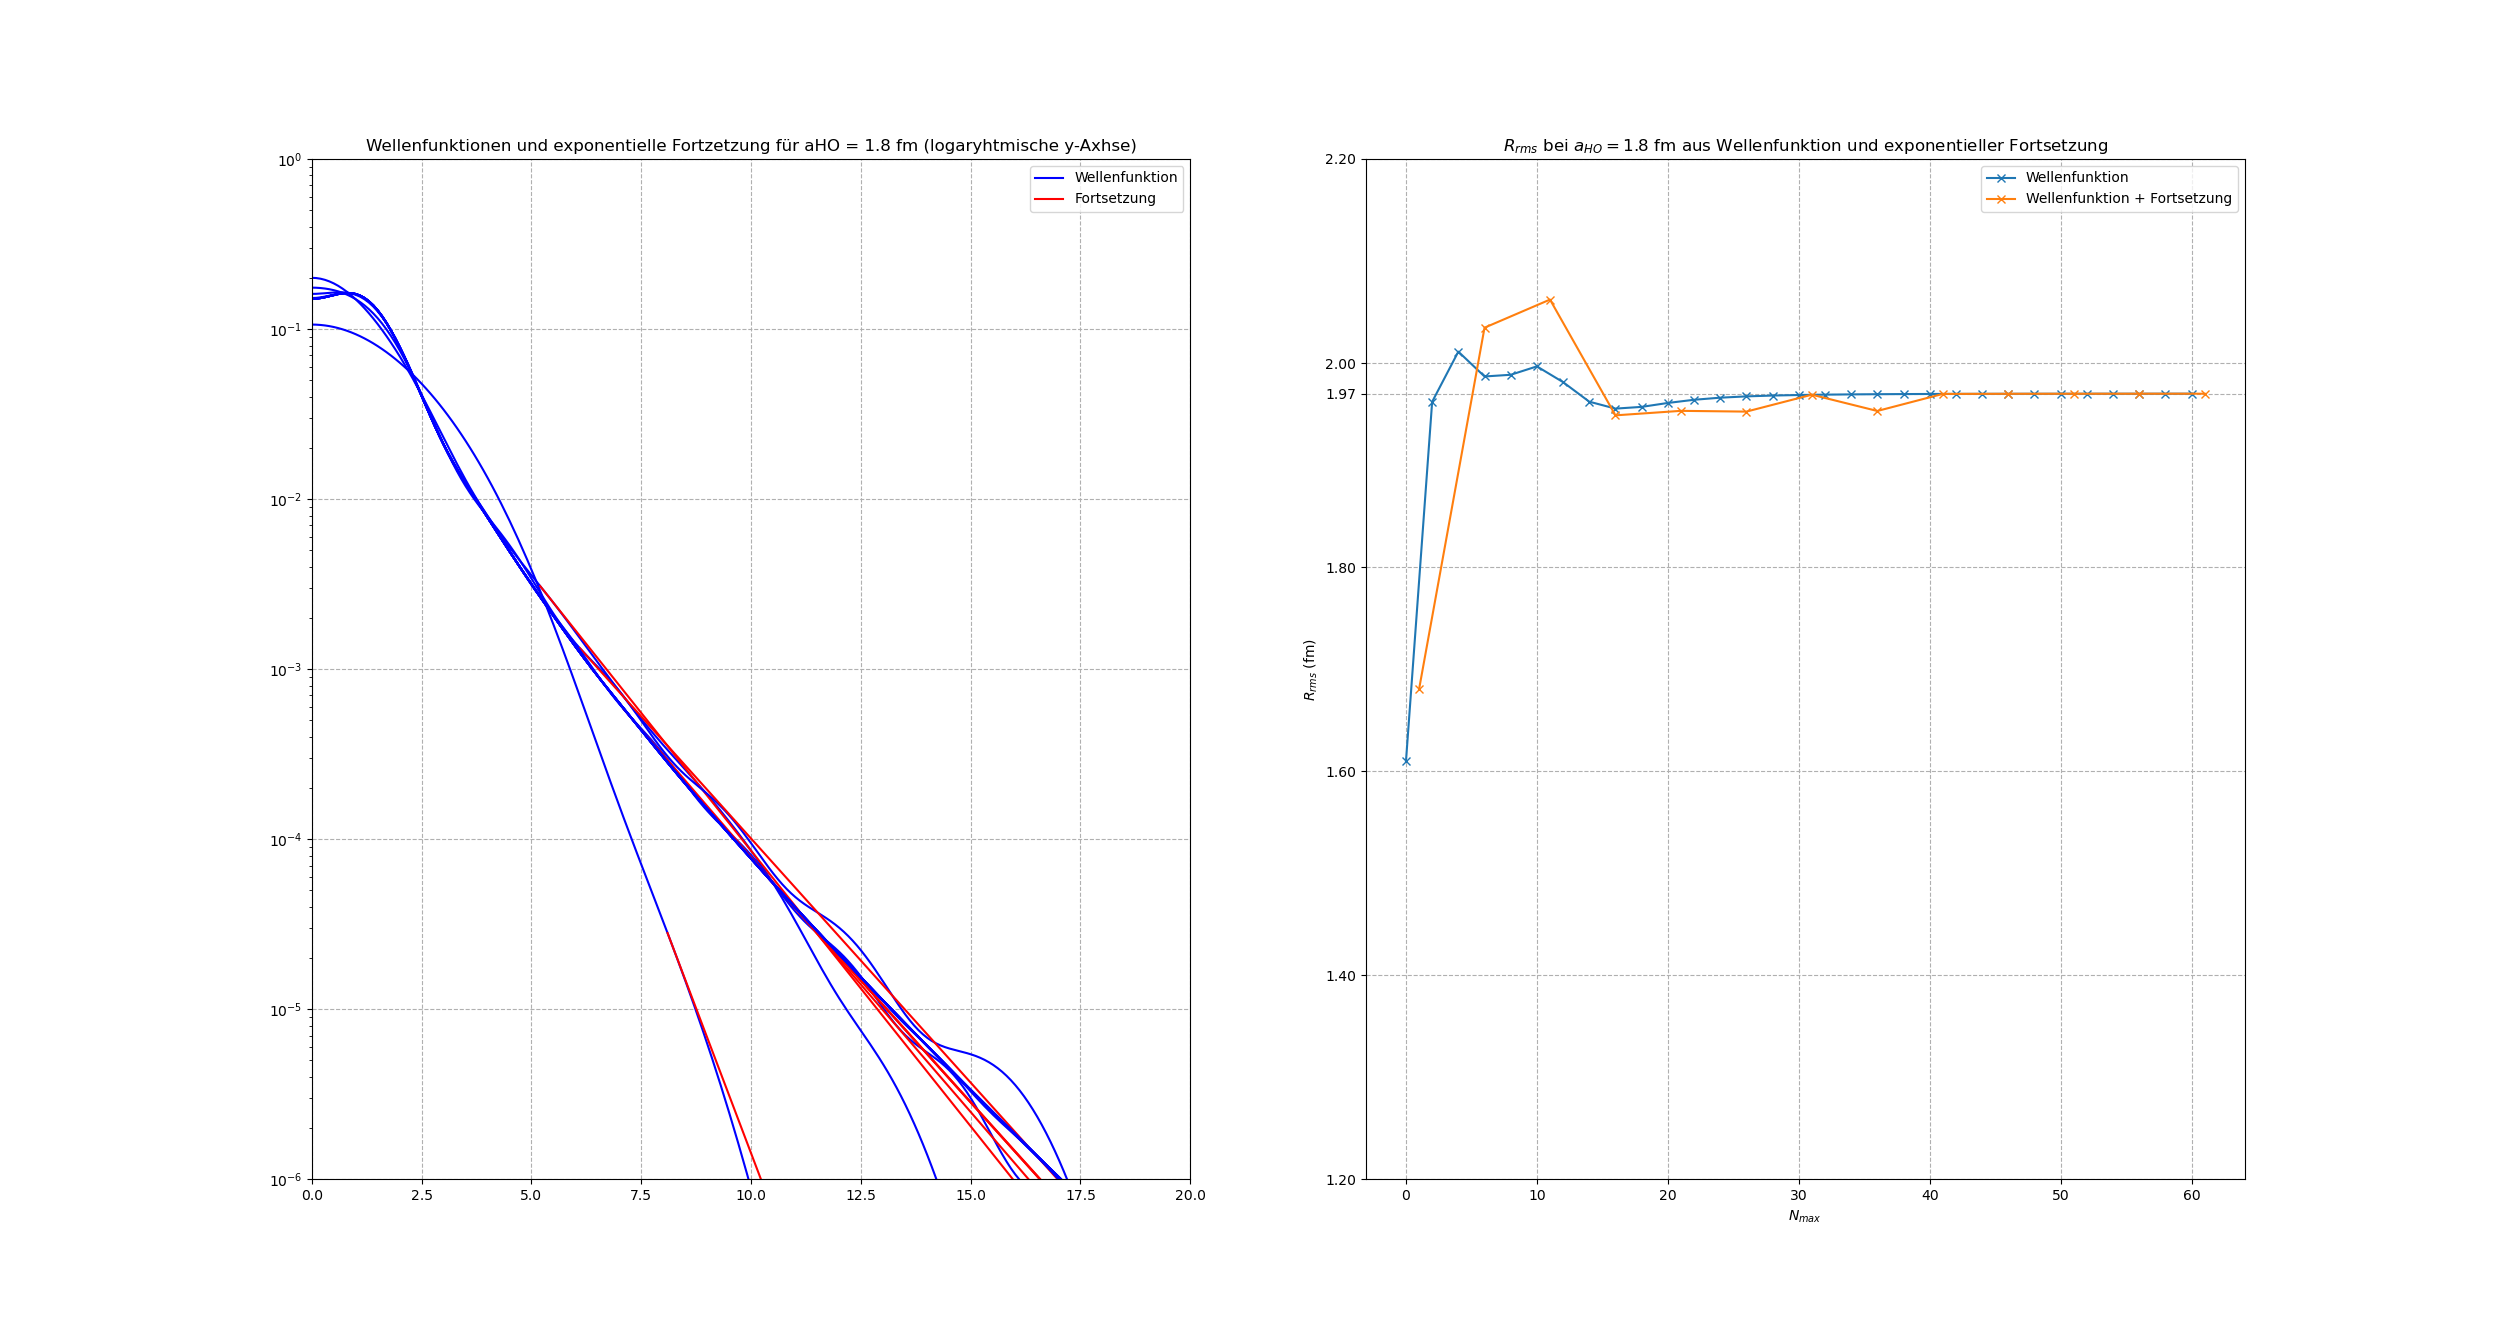
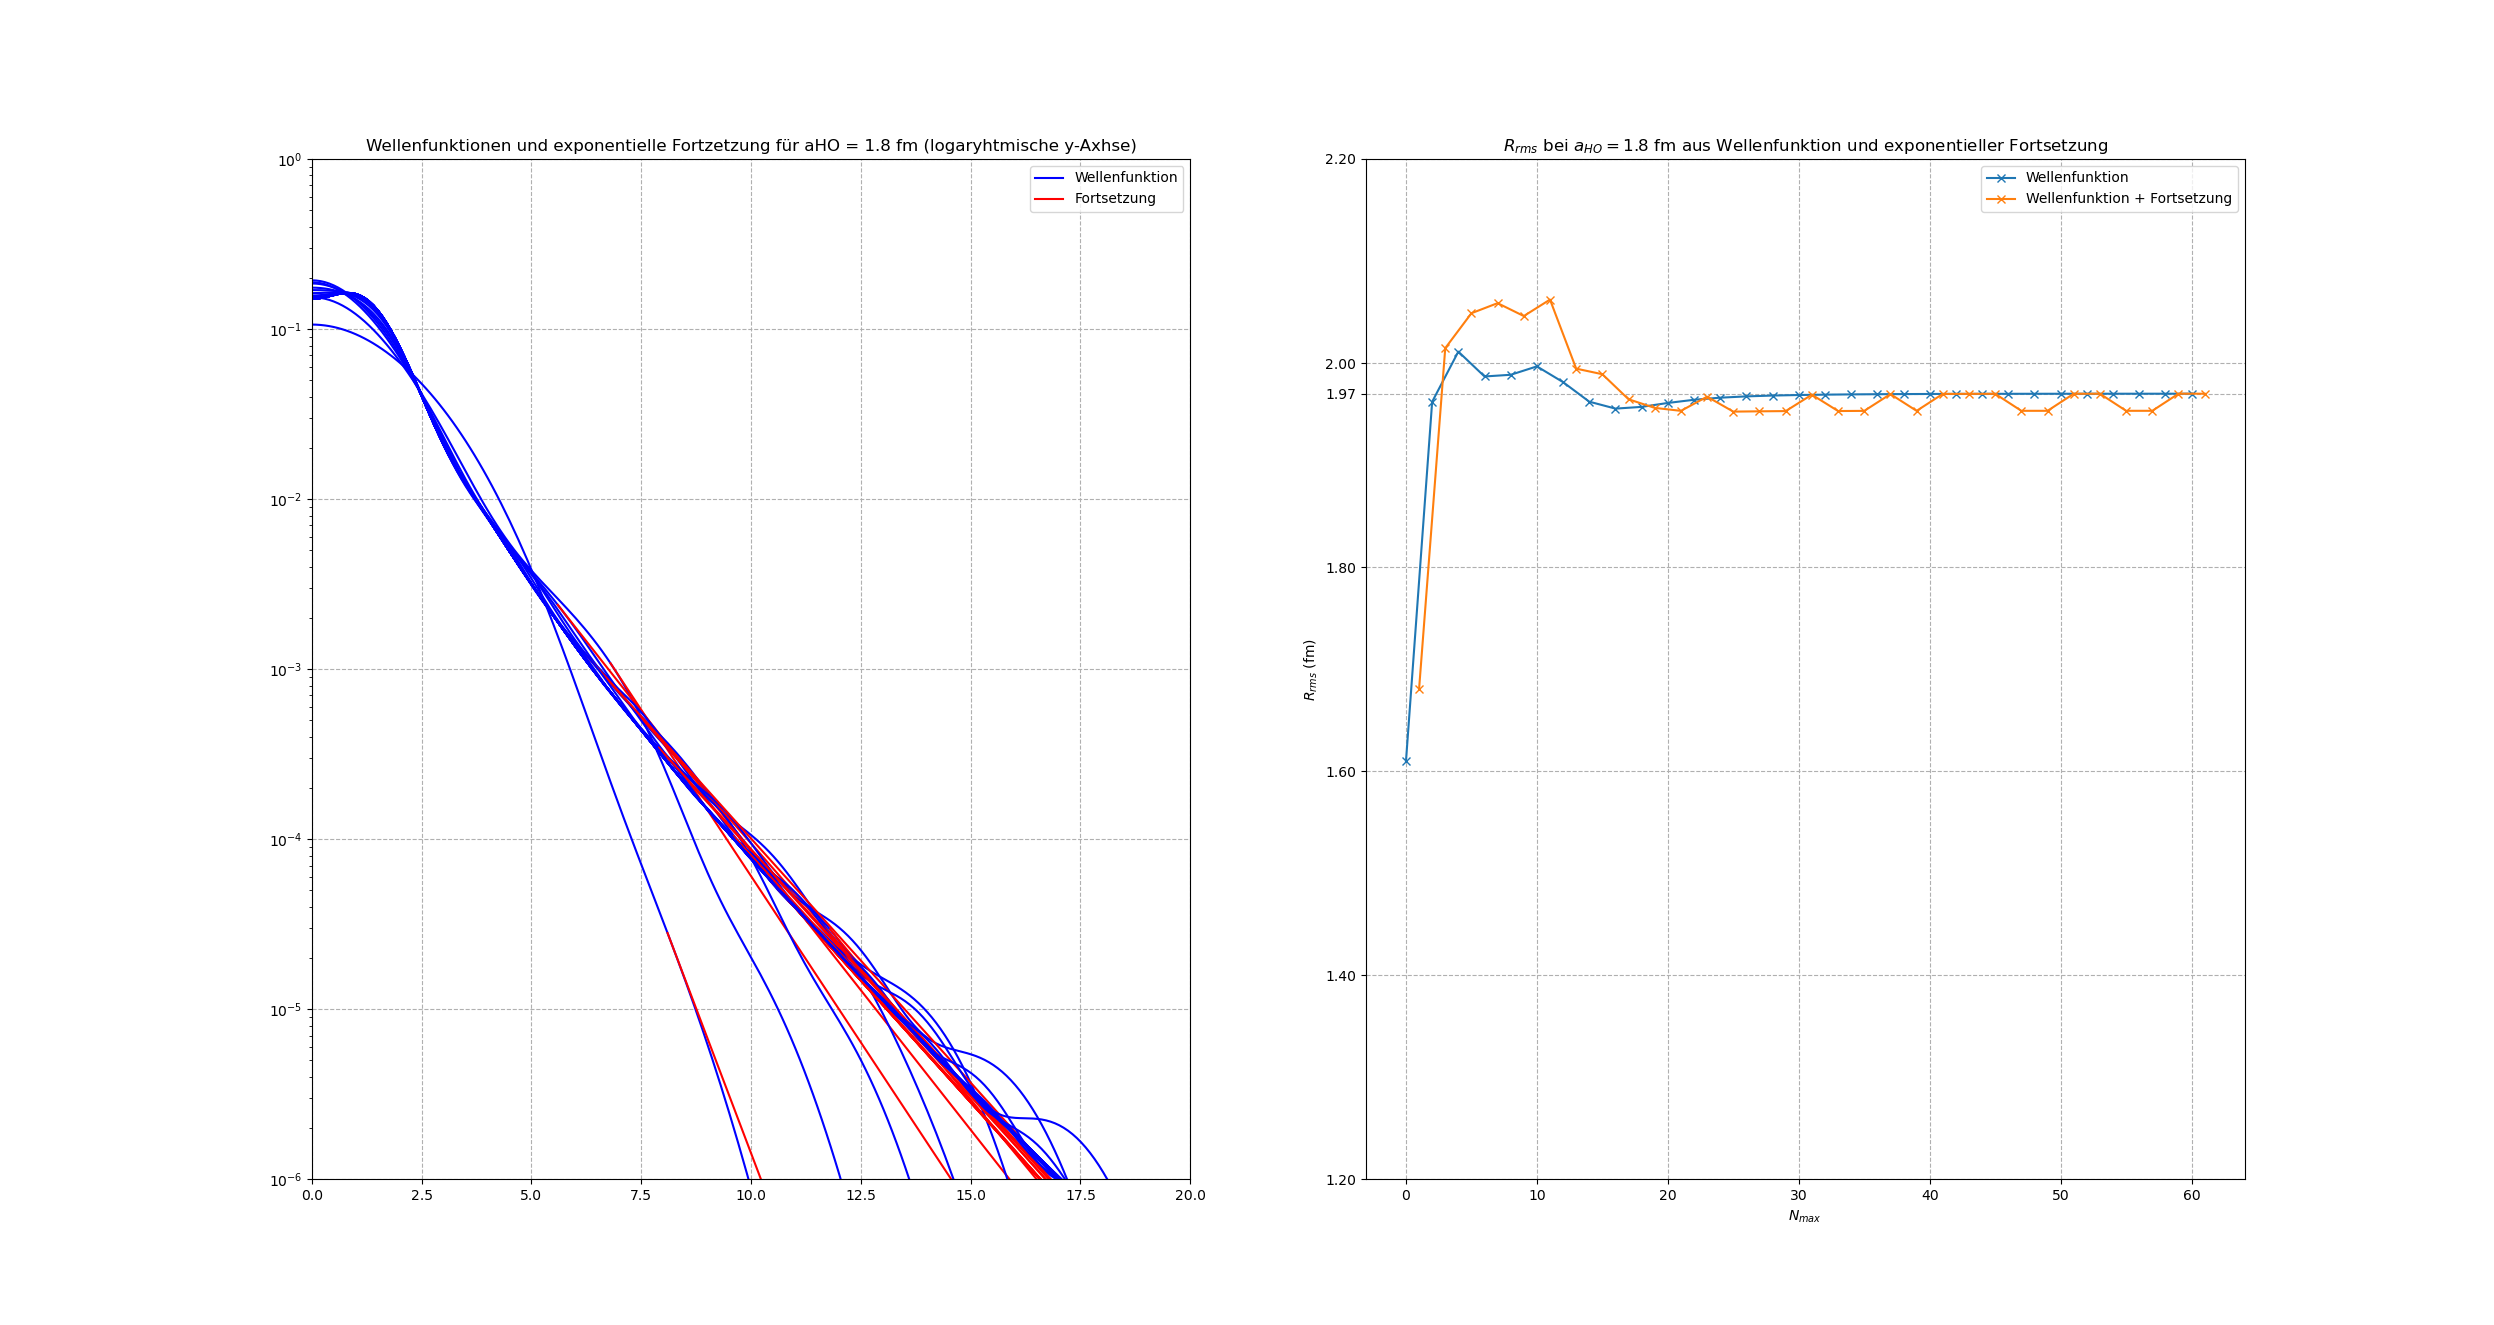
new plots

diff --git a/code/rrms_position_probability_density_continuation_variable.py b/code/rrms_position_probability_density_continuation_variable.py
@@ -202,7 +202,7 @@ def test_d(r, NNmax, dNmax):
         plt.title('aHO = ' + str(aHO_lst[j])+ ', d3/dr3')
         plt.grid(linestyle='--')
             
-test_plots(r, 60, 5)
+test_plots(r, 60, 2)
 
 # test_d(np.arange(0,15,0.1), 5, 1)
 
